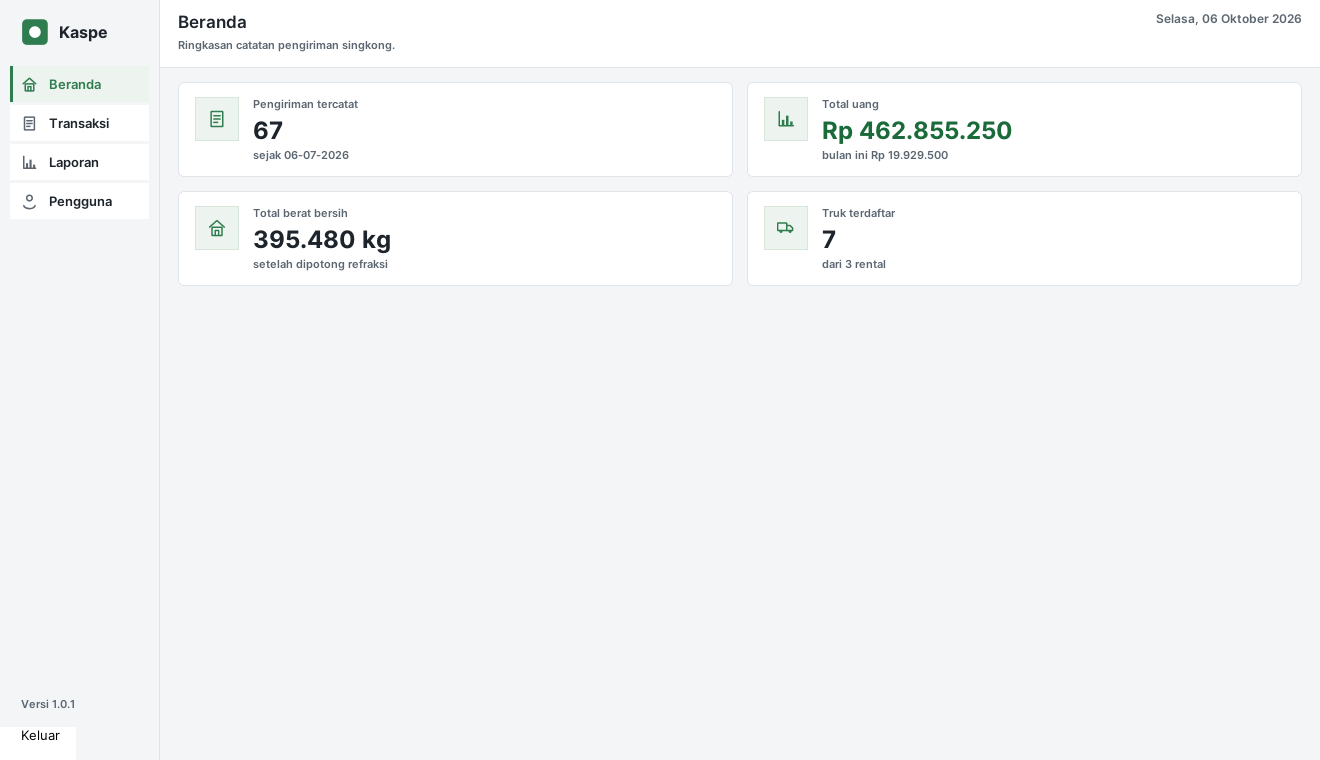
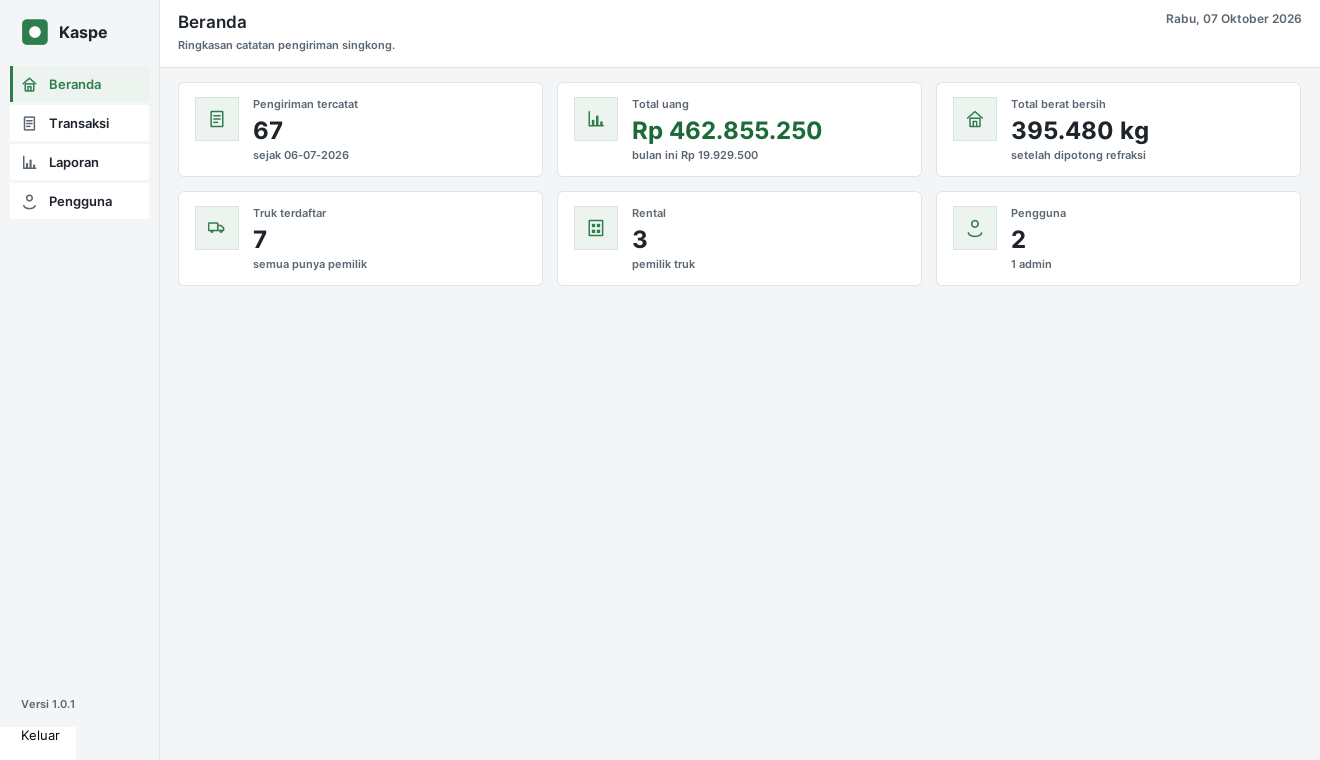
Beranda: six cards, two rows of three
Truk and Rental are now separate cards — two different lists in the master data
(one owner has many trucks), and merging them hid the number an operator looks
for right after registering a new owner. A Pengguna card joins them, so the
grid is 2x3.

Each count card's caption carries the fact worth knowing that costs nothing to
compute: "N tanpa pemilik" on the truck card (those deliveries are recorded but
never show up in the per-owner recap, so the owner needs filling in), and "N
admin" on the pengguna card (this app refuses to delete or demote the last
admin, so that number decides whether owners can still be managed at all). The
old "dari N rental" caption moved out with the rental card.

Three columns narrowed each card from 365px to 358px at the minimum window
width, so the 24pt figure was measured rather than assumed: the widest value
("Rp 462.855.250") needs 214px and gets 266px. Two checks pin it, and both were
proved by mutation:

  swapping the truck and rental counts:
    kartu "Truk terdaftar" menampilkan "3", seharusnya "8"
    kartu "Rental" menampilkan "8", seharusnya "3"
  raising the figure to 40pt:
    angka "Rp 424.683.500" butuh 323px tetapi hanya dapat 266px -
    terpotong 57px pada lebar 1300

The second check works because a JLabel that runs out of room SHRINKS - verified
by the 60pt experiment, where the label went from 534px wanted to 266px given -
so "width available < width needed" really does mean the number is cut off. A
[…]

diff --git a/src/kaspe/test/TestUi.java b/src/kaspe/test/TestUi.java
@@ -169,6 +169,19 @@ public class TestUi {
         // tanda. Diperiksa dengan membandingkan angka yang benar-benar tertulis di kartu
         // dengan hitungan query yang sama memakai batas awal bulan.
         check("angka bulan berjalan di beranda", angkaBulanBerjalan());
+        // Tiap kartu beranda harus menampilkan angka yang benar untuk JUDULNYA. Kartu
+        // truk, rental, dan pengguna berisi angka-angka yang berdekatan di kode, jadi
+        // tertukarnya dua angka di situ tidak kelihatan salah: kartunya tetap rapi dan
+        // angkanya tetap masuk akal - hanya milik orang lain. Catatan di bawah angkanya
+        // ikut diperiksa, karena "3 tanpa pemilik" yang salah baca sama saja menyesatkan.
+        check("angka kartu beranda mengikuti isi database", angkaKartuBerandaBenar());
+        // Enam kartu dibagi tiga kolom, jadi tiap kartu lebih sempit daripada waktu
+        // keempatnya berbagi dua kolom. Angka besar yang tidak muat dipotong diam-diam
+        // oleh JLabel - tidak ada galat, tidak ada elipsis, hanya angka yang hilang di
+        // ujungnya. Diukur pada lebar jendela minimum, lebar yang paling sempit yang
+        // boleh dipakai aplikasi.
+        check("angka kartu beranda tidak terpotong pada lebar jendela minimum",
+                kartuBerandaTidakTerpotong());
         // Huruf bawaan harus benar-benar terpasang. Kalau berkas huruf gagal dimuat,
         // FlatLaf diam-diam memakai huruf lain dan seluruh uji gambar tetap lolos.
         check("huruf " + Theme.fontFamily() + " terpasang",
@@ -3325,6 +3338,146 @@ public class TestUi {
     /** Angka dari tulisan di layar: buang "Rp", titik ribuan, dan satuannya. */
     private static java.math.BigDecimal angkaLayar(String teks) {
         return new java.math.BigDecimal(teks.replaceAll("[^0-9]", ""));
+    }
+
+    /**
+     * Tiap kartu beranda menampilkan angka yang cocok dengan judulnya.
+     *
+     * <p>Angkanya dihitung dari query yang sama seperti halaman itu sendiri memakainya,
+     * lalu dibandingkan dengan tulisan yang benar-benar terpasang di kartunya.
+     */
+    private static boolean angkaKartuBerandaBenar() throws Exception {
+        PanelDashboard panel = new PanelDashboard();
+        kaspe.dao.TransactionDao trx = new kaspe.dao.TransactionDao();
+        java.time.LocalDate awal = trx.earliestDate();
+        java.time.LocalDate akhir = java.time.LocalDate.now();
+        kaspe.dao.MasterDao master = new kaspe.dao.MasterDao();
+        java.util.List<kaspe.model.Truck> truk = master.listTrucks();
+        int tanpaPemilik = 0;
+        for (kaspe.model.Truck t : truk) {
+            if (t.getRentalId() == null) {
+                tanpaPemilik++;
+            }
+        }
+        int admin = 0;
+        java.util.List<kaspe.model.Pengguna> akun = new kaspe.dao.UserDao().list();
+        for (kaspe.model.Pengguna a : akun) {
+            if (a.admin()) {
+                admin++;
+            }
+        }
+
+        String[][] harap = new String[][]{
+                {"Pengiriman tercatat", String.valueOf(trx.listReport(awal, akhir).size()),
+                        awal == null ? "belum ada data" : "sejak " + kaspe.util.Dates.format(awal)},
+                {"Total uang", "Rp " + kaspe.Calculator.formatNumber(trx.totalAmount(awal, akhir)),
+                        "bulan ini Rp " + kaspe.Calculator.formatNumber(
+                                trx.totalAmount(akhir.withDayOfMonth(1), akhir))},
+                {"Total berat bersih", kaspe.Calculator.formatKg(trx.totalNetWeight(awal, akhir)),
+                        "setelah dipotong refraksi"},
+                {"Truk terdaftar", String.valueOf(truk.size()),
+                        tanpaPemilik == 0 ? "semua punya pemilik" : tanpaPemilik + " tanpa pemilik"},
+                {"Rental", String.valueOf(master.listRental().size()), "pemilik truk"},
+                {"Pengguna", String.valueOf(akun.size()), admin + " admin"},
+        };
+
+        java.util.List<JPanel> kartu = kartuBeranda(panel);
+        if (kartu.size() != harap.length) {
+            System.out.println("        kartu beranda ada " + kartu.size()
+                    + ", seharusnya " + harap.length);
+            return false;
+        }
+        boolean ok = true;
+        for (int i = 0; i < harap.length; i++) {
+            java.util.List<JLabel> isi = semuaLabel(kartu.get(i));
+            JLabel angka = labelAngka(isi);
+            if (angka == null) {
+                System.out.println("        kartu \"" + harap[i][0] + "\" tidak punya label angka");
+                ok = false;
+                continue;
+            }
+            if (!harap[i][1].equals(angka.getText())) {
+                System.out.println("        kartu \"" + harap[i][0] + "\" menampilkan \""
+                        + angka.getText() + "\", seharusnya \"" + harap[i][1] + "\"");
+                ok = false;
+            }
+            // Catatannya adalah label yang paling akhir, sesudah angka besarnya.
+            String catatan = null;
+            for (JLabel l : isi) {
+                if (l != angka && l.getText() != null && !l.getText().isEmpty()
+                        && l.getFont() != null && l.getFont().getSize() < 20) {
+                    catatan = l.getText();
+                }
+            }
+            if (!harap[i][2].equals(catatan)) {
+                System.out.println("        catatan kartu \"" + harap[i][0] + "\" berbunyi \""
+                        + catatan + "\", seharusnya \"" + harap[i][2] + "\"");
+                ok = false;
+            }
+        }
+        return ok;
+    }
+
+    /**
+     * Angka besar di tiap kartu beranda masih muat pada lebar jendela minimum.
+     *
+     * <p>Dibandingkan lebar label dengan lebar yang benar-benar diberikannya: JLabel yang
+     * kehabisan ruang menyusut (diperiksa dengan menaikkan hurufnya sampai 60pt - labelnya
+     * menyusut dari 534px menjadi 266px), jadi "lebar yang ada lebih kecil daripada yang
+     * dibutuhkan" berarti angkanya terpotong di layar.
+     */
+    private static boolean kartuBerandaTidakTerpotong() throws Exception {
+        PanelDashboard panel = new PanelDashboard();
+        PagePanel halaman = new PagePanel(admin());
+        JPanel layar = PagePanel.shell(halaman);
+        halaman.showPanel(panel, "Beranda", "Ringkasan pengiriman.");
+        layar.setSize(kaspe.ui.MainFrame.LEBAR_MINIMUM, 760);
+        for (int i = 0; i < 3; i++) {
+            layar.doLayout();
+            layoutDeep(layar);
+        }
+
+        boolean ok = true;
+        for (JPanel kartu : kartuBeranda(panel)) {
+            JLabel angka = labelAngka(semuaLabel(kartu));
+            if (angka == null) {
+                continue;
+            }
+            int perlu = angka.getPreferredSize().width;
+            int ada = angka.getWidth();
+            if (ada < perlu) {
+                System.out.println("        angka \"" + angka.getText() + "\" butuh " + perlu
+                        + "px tetapi hanya dapat " + ada + "px - terpotong "
+                        + (perlu - ada) + "px pada lebar " + kaspe.ui.MainFrame.LEBAR_MINIMUM);
+                ok = false;
+            }
+        }
+        return ok;
+    }
+
+    /** Isi kisi kartu beranda, urut kiri ke kanan lalu baris berikutnya. */
+    private static java.util.List<JPanel> kartuBeranda(PanelDashboard panel) {
+        java.util.List<JPanel> hasil = new java.util.ArrayList<>();
+        Component kisi = ((java.awt.BorderLayout) panel.getLayout())
+                .getLayoutComponent(java.awt.BorderLayout.NORTH);
+        if (kisi instanceof Container) {
+            for (Component anak : ((Container) kisi).getComponents()) {
+                if (anak instanceof JPanel) {
+                    hasil.add((JPanel) anak);
+                }
+            }
+        }
+        return hasil;
+    }
+
+    /** Label angka besar di dalam satu kartu; kartu beranda hanya punya satu. */
+    private static JLabel labelAngka(java.util.List<JLabel> isi) {
+        for (JLabel l : isi) {
+            if (l.getFont() != null && l.getFont().getSize() >= 20) {
+                return l;
+            }
+        }
+        return null;
     }
 
     /**

diff --git a/src/kaspe/ui/PanelDashboard.java b/src/kaspe/ui/PanelDashboard.java
@@ -3,7 +3,10 @@ package kaspe.ui;
 import kaspe.Calculator;
 import kaspe.dao.MasterDao;
 import kaspe.dao.TransactionDao;
+import kaspe.dao.UserDao;
+import kaspe.model.Pengguna;
 import kaspe.model.ReportRow;
+import kaspe.model.Truck;
 import kaspe.util.Dates;
 
 import javax.swing.*;
@@ -49,9 +52,31 @@ public class PanelDashboard extends JPanel {
 
             MasterDao master = new MasterDao();
             int rentals = master.listRental().size();
-            int trucks = master.listTrucks().size();
+            List<Truck> daftarTruk = master.listTrucks();
+            int trucks = daftarTruk.size();
+            // Truk yang belum punya pemilik. Bukan sekadar angka pelengkap: pengiriman
+            // truk itu ikut tercatat, tetapi namanya tidak muncul di rekap per rental -
+            // jadi kalau ada, pemiliknya memang perlu diisi lewat data master.
+            int tanpaPemilik = 0;
+            for (Truck t : daftarTruk) {
+                if (t.getRentalId() == null) {
+                    tanpaPemilik++;
+                }
+            }
 
-            // Angka bulan berjalan. Keempat kartu lainnya berisi angka sepanjang masa yang
+            // Jumlah akun, dan berapa di antaranya admin. Adminnya disebut karena
+            // aplikasi ini menolak menghapus atau menurunkan admin terakhir - jadi jumlah
+            // itulah yang menentukan masih ada yang bisa mengelola pemilik truk atau tidak.
+            List<Pengguna> daftarPengguna = new UserDao().list();
+            int pengguna = daftarPengguna.size();
+            int admin = 0;
+            for (Pengguna a : daftarPengguna) {
+                if (a.admin()) {
+                    admin++;
+                }
+            }
+
+            // Angka bulan berjalan. Kelima kartu lainnya berisi angka sepanjang masa yang
             // hampir tidak berubah dari hari ke hari, sehingga halaman ini terasa beku;
             // angka bulan berjalan itulah yang menjawab "sudah kucatat belum pengiriman
             // hari ini". Batasnya awal bulan, bukan 30 hari terakhir, supaya cocok dengan
@@ -63,8 +88,8 @@ public class PanelDashboard extends JPanel {
             // menyisakan lajur kosong di atas kartu, yang kedua membuat kartunya melar
             // jadi tinggi sekali sehingga lambang di dalamnya ikut tertarik jadi lajur
             // panjang seperti garis.
-            add(buildStats(from, pengiriman, amount, weight, rentals, trucks, monthAmount),
-                    BorderLayout.NORTH);
+            add(buildStats(from, pengiriman, amount, weight, rentals, trucks, tanpaPemilik,
+                    pengguna, admin, monthAmount), BorderLayout.NORTH);
 
 
         } catch (Exception e) {
@@ -93,16 +118,24 @@ public class PanelDashboard extends JPanel {
     }
 
     /**
-     * Empat kartu angka, tersusun dua baris dua kolom.
+     * Enam kartu angka, tersusun dua baris tiga kolom.
      *
-     * <p>Dua baris membuat tiap kartu lebih lebar dan angkanya muat dibuat lebih besar.
-     * Isinya tetap tersusun menurun - lambang, keterangan, angka, catatan - jadi kartu
+     * <p>Tiga kolom muat untuk enam kartu, dan tiap kartu masih cukup lebar untuk angka
+     * besar yang tidak terpotong pada lebar jendela minimum - diukur, bukan dikira; lihat
+     * pemeriksaan "angka kartu beranda tidak terpotong pada lebar jendela minimum".
+     *
+     * <p>Truk dan rental berdiri sendiri-sendiri: keduanya memang dua daftar yang berbeda
+     * di data master (satu pemilik punya banyak truk), jadi menggabungkannya dalam satu
+     * kartu menyembunyikan angka yang justru dicari saat ada pemilik yang baru didaftarkan.
+     *
+     * <p>Isinya tetap tersusun menurun - lambang, keterangan, angka, catatan - jadi kartu
      * selebar ini menyisakan ruang kosong di sebelah kanan. Itu disengaja: menaruh
      * catatannya di samping angka akan membuatnya terbaca sebagai angka kedua.
      */
     private JPanel buildStats(LocalDate earliest, int pengiriman, BigDecimal amount,
-                              BigDecimal weight, int rentals, int trucks, BigDecimal monthAmount) {
-        JPanel p = new JPanel(new GridLayout(2, 2, 14, 14));
+                              BigDecimal weight, int rentals, int trucks, int tanpaPemilik,
+                              int pengguna, int admin, BigDecimal monthAmount) {
+        JPanel p = new JPanel(new GridLayout(2, 3, 14, 14));
         p.setOpaque(false);
         p.add(statCard(Icons.NOTE, "Pengiriman tercatat", String.valueOf(pengiriman),
                 earliest == null ? "belum ada data" : "sejak " + Dates.format(earliest), false));
@@ -114,7 +147,13 @@ public class PanelDashboard extends JPanel {
         p.add(statCard(Icons.HOME, "Total berat bersih", Calculator.formatKg(weight),
                 "setelah dipotong refraksi", false));
         p.add(statCard(Icons.TRUCK, "Truk terdaftar", String.valueOf(trucks),
-                "dari " + rentals + " rental", false));
+                tanpaPemilik == 0 ? "semua punya pemilik" : tanpaPemilik + " tanpa pemilik", false));
+        // "Pemilik" disebut di sini karena di data master pun begitu: rental adalah
+        // pemilik truknya, bukan tempat truk itu diparkir.
+        p.add(statCard(Icons.BUILDING, "Rental", String.valueOf(rentals),
+                "pemilik truk", false));
+        p.add(statCard(Icons.USER, "Pengguna", String.valueOf(pengguna),
+                admin + " admin", false));
         return p;
     }
 

diff --git a/README.md b/README.md
@@ -12,7 +12,7 @@
 
 ## Tampilan aplikasi
 
-![Beranda dengan ringkasan nota, total uang, dan total berat bersih](preview/01-dashboard.png)
+![Beranda dengan enam kartu ringkasan: pengiriman, uang, berat bersih, truk, rental, dan pengguna](preview/01-dashboard.png)
 
 Semua gambar di folder [`preview/`](preview/) diambil dari aplikasi yang benar-benar dijalankan
 berikut datanya. Untuk melihat semuanya sekaligus, lihat bagian
@@ -660,9 +660,9 @@ pemasangan apa pun.
 | `TestCalculator` | rumus berat bersih, jumlah uang, susut, satuan bobot/refraksi, angka berdesimal, validasi | 12 lulus |
 | `TestDatabase` | pembuatan tabel otomatis (termasuk tabel pengguna), skema, view, foreign key, pembersihan kolom lama (nomor nota, view lama ikut diuji), perapian database lama jadi satu catatan per pengiriman (jumlah dan total uang tidak berubah, waktu pencatatan asli ikut pindah, aman diulang) | 57 lulus |
 | `TestDao` | master, plat diketik langsung (termasuk ejaan lama), ganti pemilik truk, tambah rental tidak menimpa rental lama, nama/plat kembar ditolak, simpan transaksi, rollback, laporan, rekap, hapus, ubah pengiriman, hapus sekaligus yang tuntas, daftar pengiriman terbaru dulu, saringan tanggal/rental/plat (rental dicocok persis dan tanpa beda huruf besar-kecil, plat sebagian termasuk ejaan lama berspasi berlebih, hasilnya sama dengan jumlah di database), penghapusan truk/rental yang beriwayat ditolak dan riwayatnya tetap utuh, cadangan database ditolak di luar H2 dengan pesan yang jelas, cadangan sungguhan pada H2 berbasis berkas (zip terisi, tidak menimpa), akun pengguna (masuk dengan sandi benar/salah, garam berbeda menghasilkan hasil sandi berbeda, ubah nama/peran/sandi, ganti sandi tanpa menimpa yang lama, hapus) | 111 lulus |
-| `TestUi` | panel tampilan tergambar, bilah halaman, huruf, pratinjau cetak, lebar kolom tabel, tinggi daftar pengiriman tersimpan, jumlah baris laporan ikut terisi, kaki cetak menyebut saringan rental/plat, tombol rentang cepat memasang rentangnya, nilai susut di berkas CSV, tombol tidak terpotong wadahnya, kolom tabel utuh dan halaman muat tanpa digulir pada ukuran jendela minimum, perataan judul kolom mengikuti isinya, tombol Simpan selebar kotak hasil, berkas CSV siap dijumlahkan, panah penanda urut tergambar, kolom uang terurut menurut nilainya, judul bilah atas ikut pindah halaman, baris menu bilah samping (menu Pengguna tampil untuk admin dan tidak tampil untuk pengguna biasa), pemilihan baris data master, truk tanpa pemilik ditolak, pindah pemilik truk, angka bulan berjalan di beranda, kesesuaian rental dengan plat, dan nama rental yang diketik, layar masuk (pembuatan admin pertama, pesan gagal masuk yang selalu sama), penolakan hapus admin terakhir, tabel akun yang tidak melar dan tombolnya yang duduk di bawah isiannya | 86 lulus |
+| `TestUi` | panel tampilan tergambar, bilah halaman, huruf, pratinjau cetak, lebar kolom tabel, tinggi daftar pengiriman tersimpan, jumlah baris laporan ikut terisi, angka kartu beranda mengikuti isi database, kartu beranda tidak terpotong pada lebar minimum, kaki cetak menyebut saringan rental/plat, tombol rentang cepat memasang rentangnya, nilai susut di berkas CSV, tombol tidak terpotong wadahnya, kolom tabel utuh dan halaman muat tanpa digulir pada ukuran jendela minimum, perataan judul kolom mengikuti isinya, tombol Simpan selebar kotak hasil, berkas CSV siap dijumlahkan, panah penanda urut tergambar, kolom uang terurut menurut nilainya, judul bilah atas ikut pindah halaman, baris menu bilah samping (menu Pengguna tampil untuk admin dan tidak tampil untuk pengguna biasa), pemilihan baris data master, truk tanpa pemilik ditolak, pindah pemilik truk, angka bulan berjalan di beranda, kesesuaian rental dengan plat, dan nama rental yang diketik, layar masuk (pembuatan admin pertama, pesan gagal masuk yang selalu sama), penolakan hapus admin terakhir, tabel akun yang tidak melar dan tombolnya yang duduk di bawah isiannya | 88 lulus |
 | `TestAlur` | satu Simpan jadi satu catatan, truk dan tanggal sama tetap dua catatan, form dikosongkan setelah simpan (tanggal tetap), simpan kedua tidak menggandakan, ubah menulis tanpa menambah, Batal tidak mengubah apa pun, hapus yang dipilih, pilihan menentukan tombol, id baris dibaca dari model, saringan daftar (rental baru langsung muncul; batas di luar jangkauan data dirapikan; jangkauan yang gagal dibaca tidak menggeser batas), catatan tersembunyi oleh saringan diberitahu, rental wajib diisi, pemilik berbeda ditolak, tanggal tidak valid ditolak, belum lunas tersimpan, isian tidak hilang saat pindah halaman | 115 lulus |
-| **Total** | | **381 lulus, 0 gagal** |
+| **Total** | | **383 lulus, 0 gagal** |
 
 ---
 

diff --git a/docs/specification.md b/docs/specification.md
@@ -159,6 +159,6 @@ Seluruh uji dijalankan lewat `./test.sh` dan lulus tanpa kegagalan:
 | TestCalculator | rumus berat bersih, jumlah uang, susut, satuan bobot/refraksi, angka berdesimal, validasi | 12 lulus |
 | TestDatabase | pembuatan tabel otomatis (termasuk tabel pengguna), skema, view, foreign key, pembersihan kolom lama (nomor nota, view lama ikut diuji), perapian database lama menjadi satu catatan per pengiriman (jumlah dan total uang tidak berubah, waktu pencatatan asli ikut pindah, aman dijalankan berulang) | 57 lulus |
 | TestDao | master, plat diketik langsung (termasuk ejaan lama), ganti pemilik truk, tambah rental tidak menimpa rental lama, nama/plat kembar ditolak, simpan transaksi, rollback, laporan, rekap, hapus, ubah pengiriman (hitungan diulang, tanggal ikut pindah, rental tidak tertimpa), hapus sekaligus yang tuntas, daftar pengiriman terbaru dulu, saringan tanggal/rental/plat (termasuk plat ejaan lama dan rental tanpa beda huruf besar-kecil), penolakan hapus truk/rental yang beriwayat, penolakan cadangan di luar H2, cadangan sungguhan pada H2 berbasis berkas, akun pengguna (penyandian sandi dengan garam berbeda, masuk benar/salah, ubah nama/peran/sandi, hapus) | 111 lulus |
-| TestUi | panel tampilan tergambar, bilah halaman, huruf, pratinjau cetak, lebar kolom tabel, tinggi daftar pengiriman tersimpan, tombol tidak terpotong wadahnya, kolom tabel utuh dan halaman muat tanpa digulir pada ukuran jendela minimum, perataan judul kolom mengikuti isinya, tombol Simpan selebar kotak hasil, berkas CSV siap dijumlahkan, berkas CSV menyebut cakupan dan urutannya, panah penanda urut tergambar, judul kolom tidak terpotong saat panah urut tampil, kolom uang dan tanggal terurut menurut nilainya, pengurutan tahan baris belum lunas, kaki cetak menyebut urutan, tombol rentang cepat memasang rentangnya, nilai susut di berkas CSV, memasang pembanding menyalakan pengurutnya sendiri, rekap per rental menghormati saringan, urutan nama tidak bergantung bahasa komputer, judul bilah atas ikut pindah halaman, baris menu bilah samping, pemilihan baris data master, truk tanpa pemilik ditolak, pindah pemilik truk, angka bulan berjalan di beranda, kesesuaian rental dengan plat, dan nama rental yang diketik, layar masuk (pembuatan admin pertama, pesan gagal masuk yang selalu sama), menu Pengguna tampil untuk admin dan tidak tampil untuk pengguna biasa, penolakan hapus admin terakhir, tabel akun yang tidak melar dan tombolnya yang duduk di bawah isiannya | 86 lulus |
+| TestUi | panel tampilan tergambar, bilah halaman, huruf, pratinjau cetak, lebar kolom tabel, tinggi daftar pengiriman tersimpan, tombol tidak terpotong wadahnya, kolom tabel utuh dan halaman muat tanpa digulir pada ukuran jendela minimum, perataan judul kolom mengikuti isinya, angka kartu beranda mengikuti isi database, kartu beranda tidak terpotong pada lebar minimum, tombol Simpan selebar kotak hasil, berkas CSV siap dijumlahkan, berkas CSV menyebut cakupan dan urutannya, panah penanda urut tergambar, judul kolom tidak terpotong saat panah urut tampil, kolom uang dan tanggal terurut menurut nilainya, pengurutan tahan baris belum lunas, kaki cetak menyebut urutan, tombol rentang cepat memasang rentangnya, nilai susut di berkas CSV, memasang pembanding menyalakan pengurutnya sendiri, rekap per rental menghormati saringan, urutan nama tidak bergantung bahasa komputer, judul bilah atas ikut pindah halaman, baris menu bilah samping, pemilihan baris data master, truk tanpa pemilik ditolak, pindah pemilik truk, angka bulan berjalan di beranda, kesesuaian rental dengan plat, dan nama rental yang diketik, layar masuk (pembuatan admin pertama, pesan gagal masuk yang selalu sama), menu Pengguna tampil untuk admin dan tidak tampil untuk pengguna biasa, penolakan hapus admin terakhir, tabel akun yang tidak melar dan tombolnya yang duduk di bawah isiannya | 88 lulus |
 | TestAlur | satu Simpan jadi satu catatan, truk dan tanggal sama tetap dua catatan, form dikosongkan setelah simpan (tanggal tetap), simpan kedua tidak menggandakan, ubah menulis tanpa menambah, Batal tidak mengubah apa pun, hapus yang dipilih, pilihan menentukan tombol, id baris dibaca dari model, saringan daftar (rental baru langsung muncul, batas dirapikan), rental wajib diisi, pemilik berbeda ditolak, tanggal tidak valid ditolak, belum lunas tersimpan, isian tidak hilang saat pindah halaman | 115 lulus |
-| **Total** | | **381 lulus, 0 gagal** |
+| **Total** | | **383 lulus, 0 gagal** |

diff --git a/AGENTS.md b/AGENTS.md
@@ -311,10 +311,21 @@ starts with `DELETE`, so it wipes the target database.
 - **`Theme.fixedWidth` any short table column.** An unpinned column absorbs its share of the leftover
   window width, so in the 720px dialog the "Plat" column — ten characters of content — rendered 279px
   wide because both columns were stretched equally. Let the column holding long text absorb the slack.
-- **Dashboard is four stat cards, two rows of two, pinned to the top**: the big number keeps
+- **Dashboard is six stat cards, two rows of three, pinned to the top**: the big number keeps
   its all-time meaning and the month-to-date figure (`totalAmount(withDayOfMonth(1), now)`)
   goes in the caption — do not move the month figure into the headline, since changing a
   number's meaning without changing its title is what causes misreads.
+  **Truk and Rental are separate cards**: they are two different lists in the master data (one
+  owner has many trucks), and merging them hid the number an operator looks for right after
+  registering a new owner. Each count card's caption carries the fact worth knowing that is
+  free to compute: trucks without an owner, how many accounts are admins. The Pengguna card is
+  drawn for **every role** — it is a count, not the accounts page, which stays admin-only; it
+  discloses nothing an operator can act on.
+  Three columns narrowed each card, so the 24pt figure is now sized against the card width:
+  `TestUi.kartuBerandaTidakTerpotong` measures the value label against the width it actually
+  gets at `LEBAR_MINIMUM`, and `angkaKartuBerandaBenar` pins every card's number and caption to
+  the query that produces it (truck/rental/user counts sit next to each other in the code, so
+  two of them swapping reads perfectly plausible on screen).
   `TestUi.angkaBulanBerjalan` pins the month boundary. Two things were tried and rejected:
   a per-owner recap (`summaryPerRental`, still used by `TestDao` only) because a two-column
   table stretched across the page left the name and its amount at opposite ends of a
@@ -586,7 +597,7 @@ CP="build:lib/*"
 ```
 
 `set -e` means the first failing class aborts the run. Expected baseline: `TestCalculator` 12,
-`TestDatabase` 57, `TestDao` 111, `TestAlur` 115, `TestUi` 86 — **381 lulus, 0 gagal**.
+`TestDatabase` 57, `TestDao` 111, `TestAlur` 115, `TestUi` 88 — **383 lulus, 0 gagal**.
 
 - Tests use in-memory H2 only (`mem:kaspe`, `mem:daotest`, `mem:uitest`) and configure it via the
   test hook `Db.setConfiguration(driver, url, user, pass)`; they never touch the user's real
